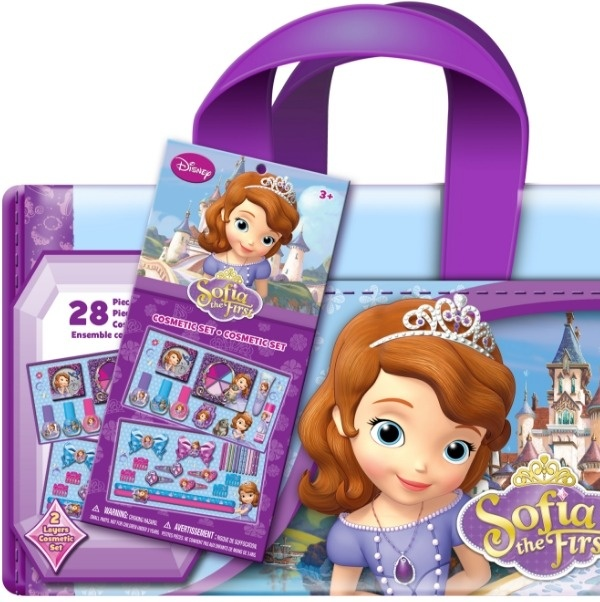
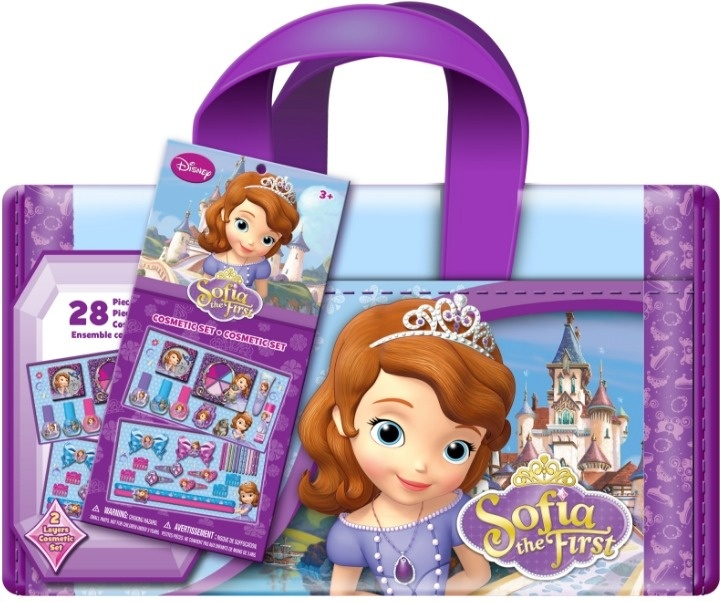
Fix disney-sofia thumb crop to include full bag
Extended crop from x=600 to x=720 so the full bag including
"Sofia the First" logo is visible. Use object-fit: contain with
light purple background to prevent grid from cropping the image.

https://claude.ai/code/session_015EQAUBhe4rZnk3AphwChQR

diff --git a/index.html b/index.html
@@ -77,7 +77,7 @@
           <img src="images/disney-fairies.jpg" alt="Disney Fairies Swivel Hairbrush" loading="lazy" style="object-position: 50% 50%">
         </a>
         <a href="#project/disney-sofia" class="grid-item">
-          <img src="images/disney-sofia.jpg" alt="Disney Sofia the First Cosmetic Set" loading="lazy">
+          <img src="images/disney-sofia.jpg" alt="Disney Sofia the First Cosmetic Set" loading="lazy" style="object-fit: contain; background: #e8dff0">
         </a>
         <a href="#project/disney-princess" class="grid-item">
           <img src="images/disney-princess.jpg" alt="Disney Princess Beauty Products" loading="lazy" style="transform: scale(1.15)">
